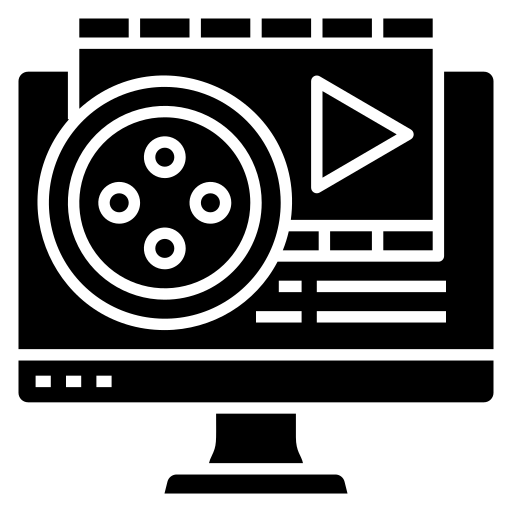
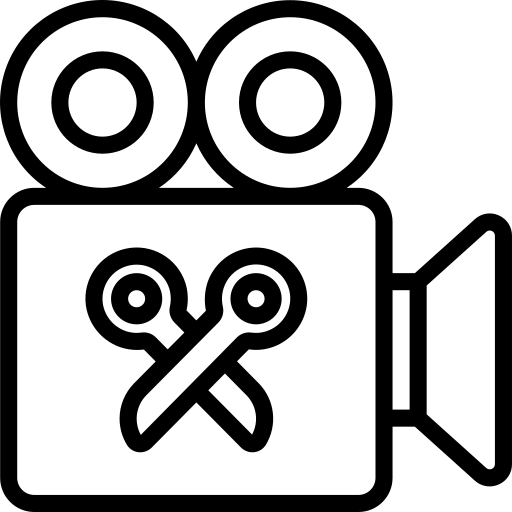
role

diff --git a/components/Footer.js b/components/Footer.js
@@ -92,7 +92,7 @@ export default function Footer({ onContact }) {
       <EndCredits />
 
       <div className="footer-bar">
-        <span>© 2026 Shubham Film Productions · Mumbai · All rights reserved · <a href="https://www.flaticon.com/free-icons/film-roll" target="_blank" rel="noopener noreferrer" title="Film roll icons created by Flaticon">Icon ↗</a></span>
+        <span>© 2026 Shubham Film Productions · Mumbai · All rights reserved</span>
         <span className="footer-status">
           <span className="dot" />{currentMonth ? `Currently open for ${currentMonth} onwards bookings` : 'Currently open for bookings'}
         </span>